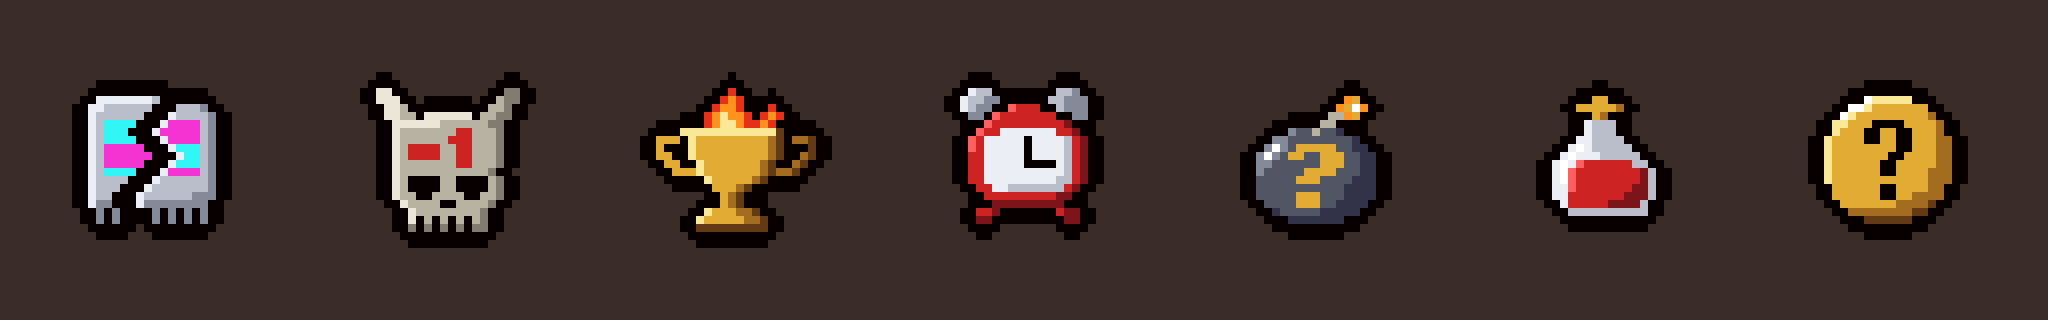
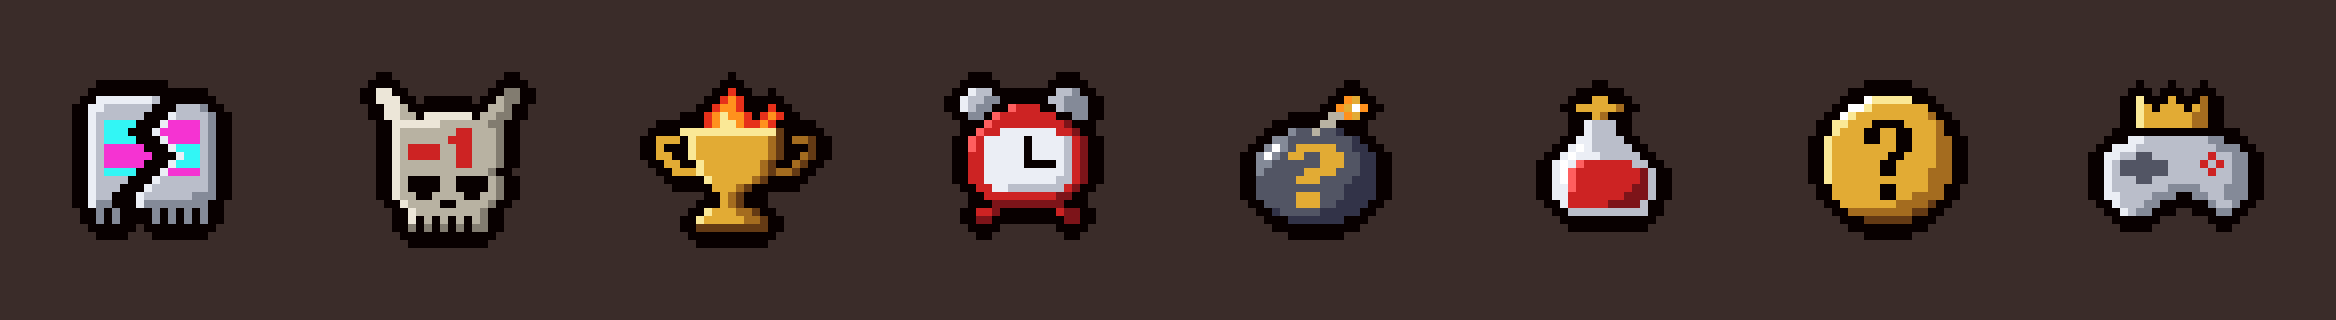
feat: aggiunge La Mossa del Pro Player, "Non muore!" e "Fammi sognare"

diff --git a/tools/sprites.py b/tools/sprites.py
@@ -17,6 +17,7 @@ OUT = {
     "potrebbe_stare_qua": "resources/gfx/items/collectibles/potrebbe_stare_qua.png",
     "san_gennaruzzo": "resources/gfx/items/collectibles/san_gennaruzzo.png",
     "te_ne_privi": "resources/gfx/items/trinkets/te_ne_privi.png",
+    "mossa_pro_player": "resources/gfx/items/collectibles/mossa_pro_player.png",
 }
 PALETTE = {
     "K": (8, 0, 0),        # Contorno Isaac: colore del bordo in 443 collezionabili vanilla su 548
@@ -186,6 +187,23 @@ SPRITES = {
         "  YYYYYYYyyyyb  ",
         "   yyyyyyyybb   ",
         "     bbbbbb     ",
+    ],
+    "mossa_pro_player": [  # Controller grigio con la corona d'oro del pro player
+        "     L   Y   y      ",
+        "     LY YYY Yy      ",
+        "     LYYYYYYyy      ",
+        "     LYYYYYYyy      ",
+        "                    ",
+        "    wwggggggggmm    ",
+        "  wwwggggggggggmmm  ",
+        " wwggddgggggggRggmm ",
+        " wgddddddggggRgRgmm ",
+        " wgddddddgggggRggmm ",
+        " wgggddggggggggggmm ",
+        " wgggggggmmmmgggmmm ",
+        " wwggggmmm  mmggmmm ",
+        "  wgggmm      mggm  ",
+        "   wgmm        mm   ",
     ],
 }
 

diff --git a/docs/da-fare-su-windows.md b/docs/da-fare-su-windows.md
@@ -43,6 +43,9 @@ Apri la console con il tasto `\` (quello sopra Invio, oppure `ò`/`ù` sulla tas
 - [ ] `giveitem Il Miracolo di San Gennaruzzo`, poi usa `goto s.angel.0` per entrare in una stanza dell'angelo: compare **"Il miracolo / di San Gennaruzzo!"** e appare un cuore eterno. Il comando `goto` crea una stanza speciale: se non scatta, prova con una stanza dell'angelo vera.
 - [ ] Con lo stesso oggetto, scendi di qualche piano e controlla che le stanze dell'angelo compaiano più spesso.
 - [ ] `giveitem Che Fai, Te Ne Privi?`, poi finisci qualche stanza: circa una volta su quattro compare un pickup in più con **"Che fai? Te ne privi?"**.
+- [ ] `giveitem La Mossa del Pro Player`, poi usalo: compare **"La mossa del pro player!"** e il danno sale di 2. Il bonus sparisce cambiando stanza. Riusalo e fatti colpire: il bonus sparisce e compare **"Sono un cretino"**, anche quando il colpo toglie un cuore intero.
+- [ ] Resta in una stanza con un boss vivo per 60 secondi: compare **"Non muore!"**, una volta sola. Controlla che il tempo sia giusto e che non scatti entrando in stanze senza boss.
+- [ ] `giveitem c105`, poi usa il D6 su un piedistallo: l'oggetto cambia come sempre e compare **"Fammi sognare"**.
 - [ ] Le icone dei quattro oggetti nuovi si vedono e le loro descrizioni in External Item Descriptions sono giuste.
 - [ ] Le 7 icone sono state ridisegnate con il contorno da 2px: guardale sul piedistallo e nell'HUD, e controlla che siano leggibili accanto agli oggetti vanilla. Fai attenzione al "-1" di -1 al Dead God e a Il Miracolo di San Gennaruzzo, che potrebbe sembrare una pozione.
 

diff --git a/CLAUDE.md b/CLAUDE.md
@@ -34,7 +34,7 @@ Non c'è un test runner. I test sono script con `assert`: per provarne uno basta
 - **`main.lua`.** Fa solo da collegamento con le callback del gioco, e ha tre sezioni:
   - **oggetti nuovi:** Ho Rotto il Gioco, -1 al Dead God, Win Streak;
   - **scritte a schermo:** ognuna fa `say(...)` → la coda → `HUD:ShowItemText` dentro `MC_POST_UPDATE`;
-  - **oggetti dei tormentoni:** Non Vi Rubo Altro Tempo, Potrebbe Stare Qua, Il Miracolo di San Gennaruzzo, Che Fai, Te Ne Privi?. Stanno in fondo perché usano anche `say`.
+  - **oggetti dei tormentoni:** Non Vi Rubo Altro Tempo, Potrebbe Stare Qua, Il Miracolo di San Gennaruzzo, Che Fai, Te Ne Privi?, La Mossa del Pro Player. Stanno in fondo perché usano anche `say`.
 
   La stessa callback può essere registrata due volte, una per sezione, ed è voluto.
 - **Coda delle scritte.**
